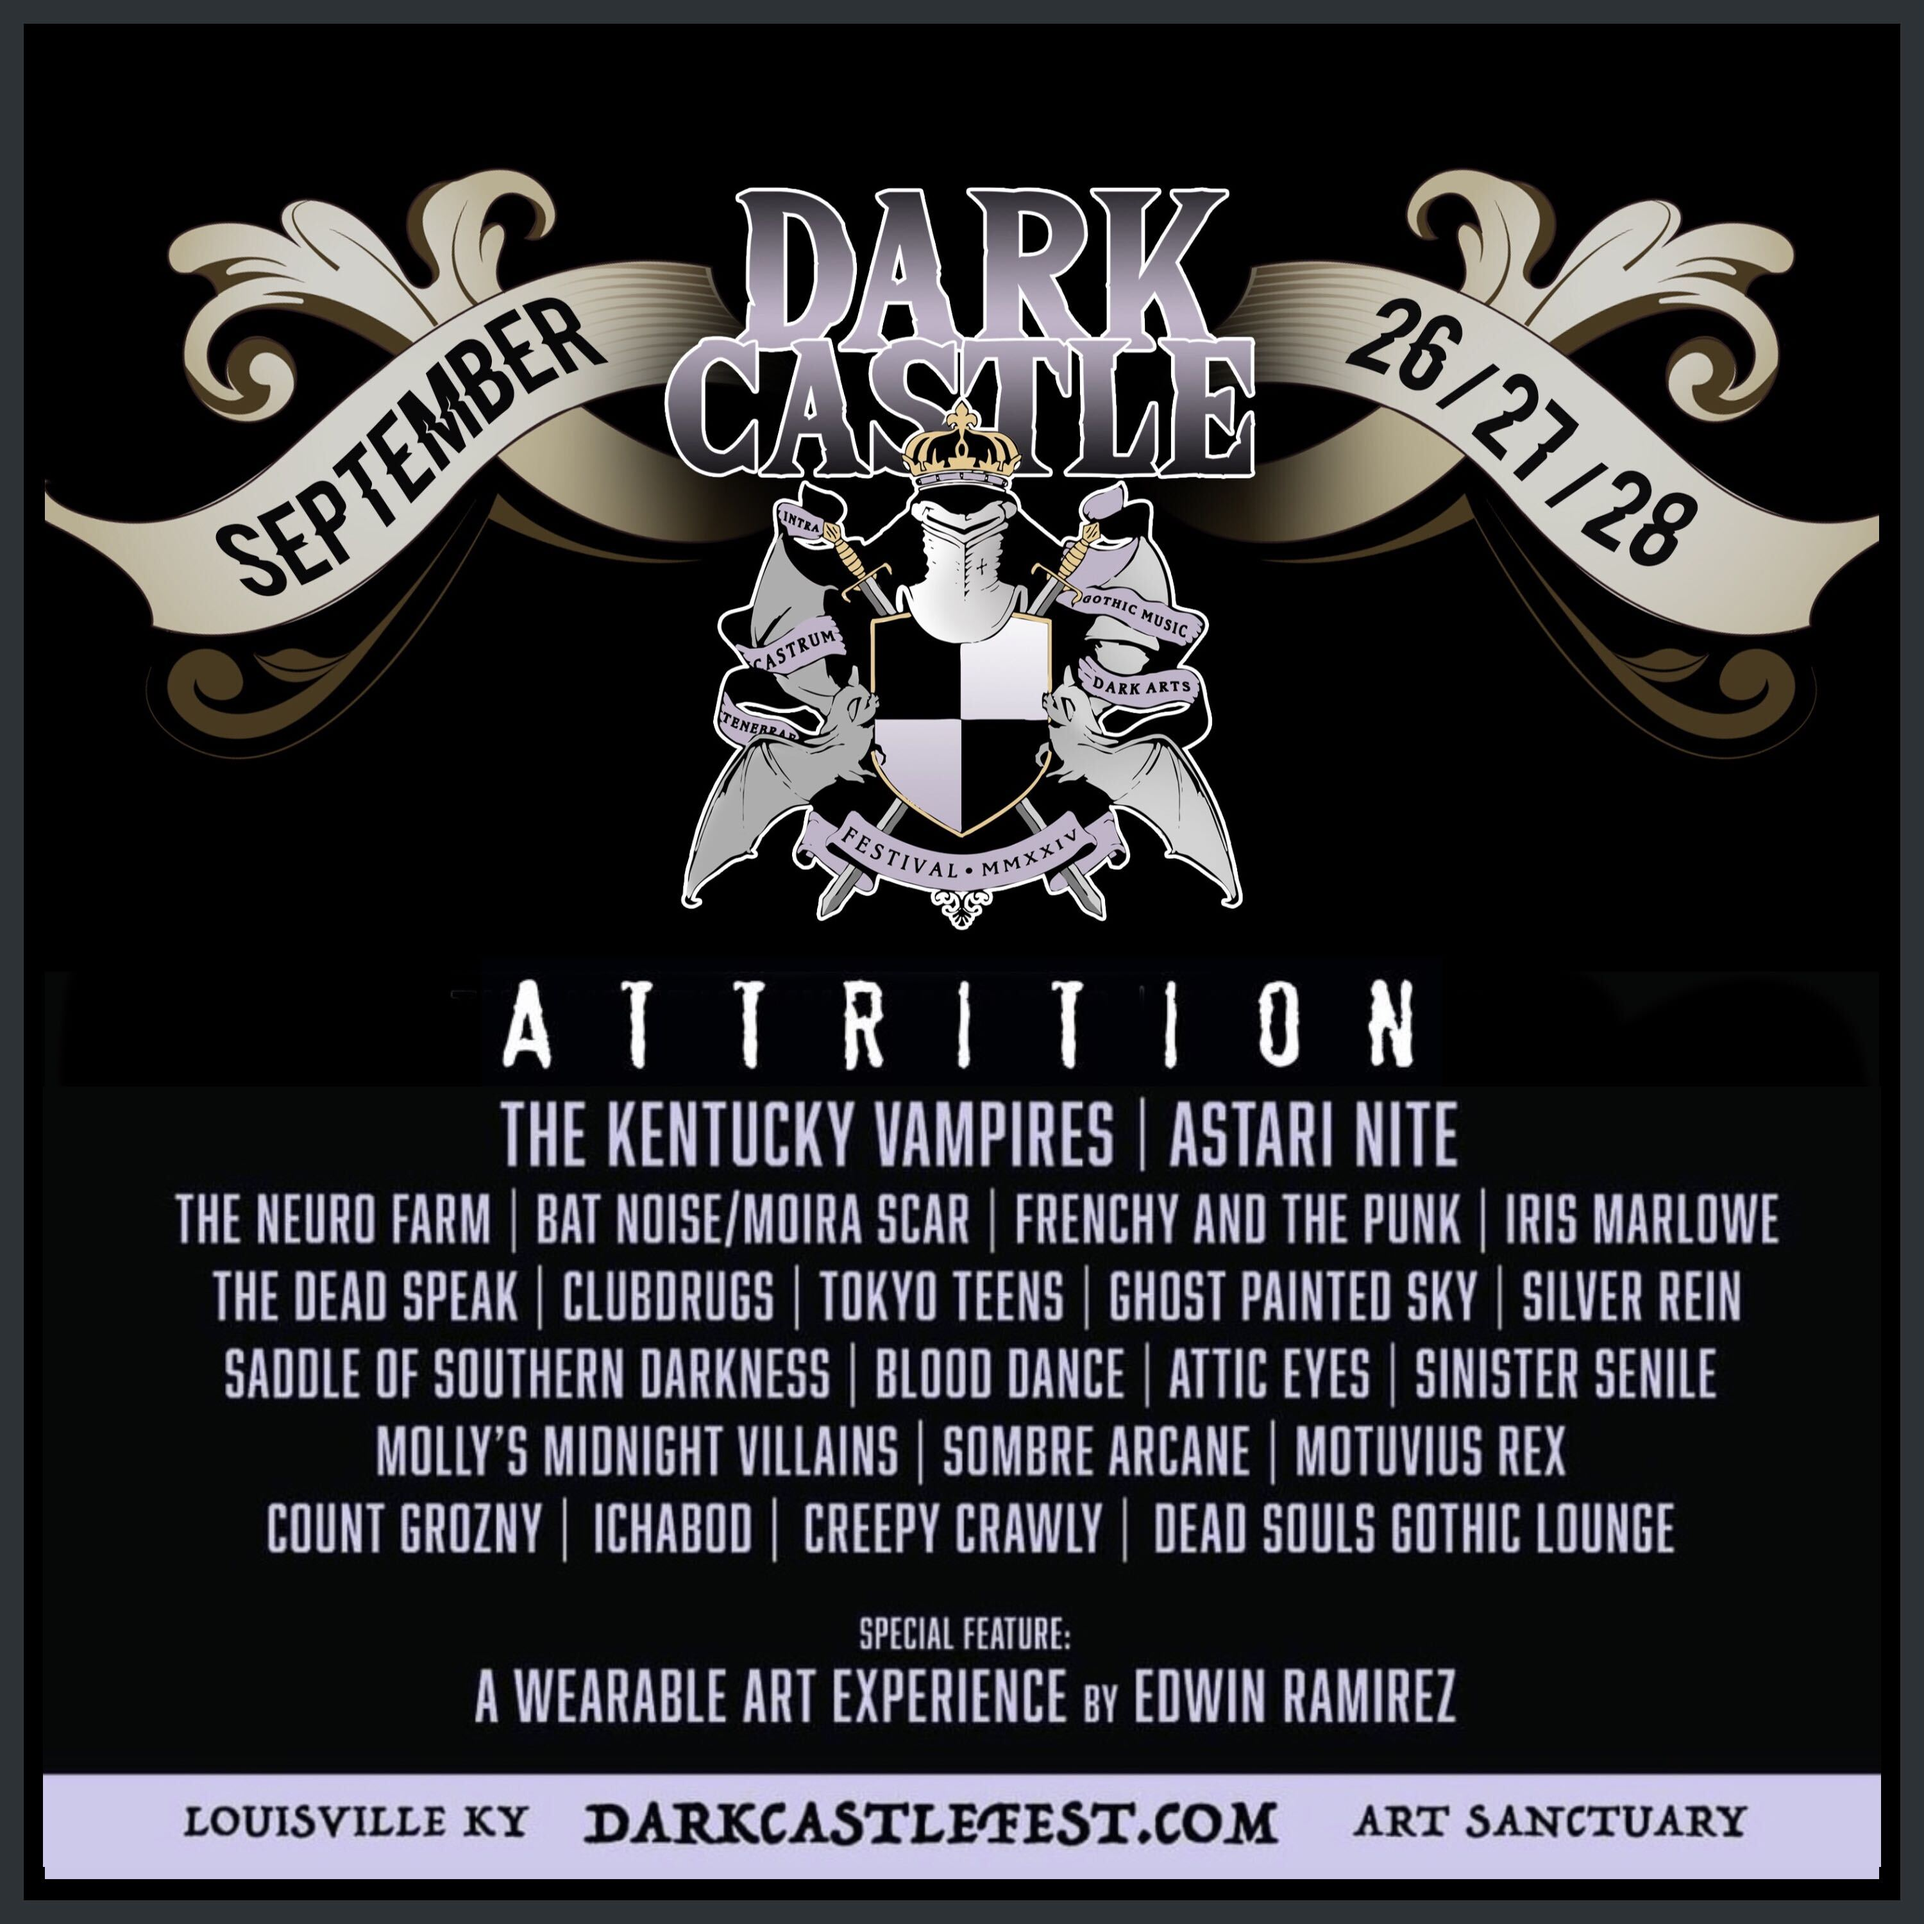
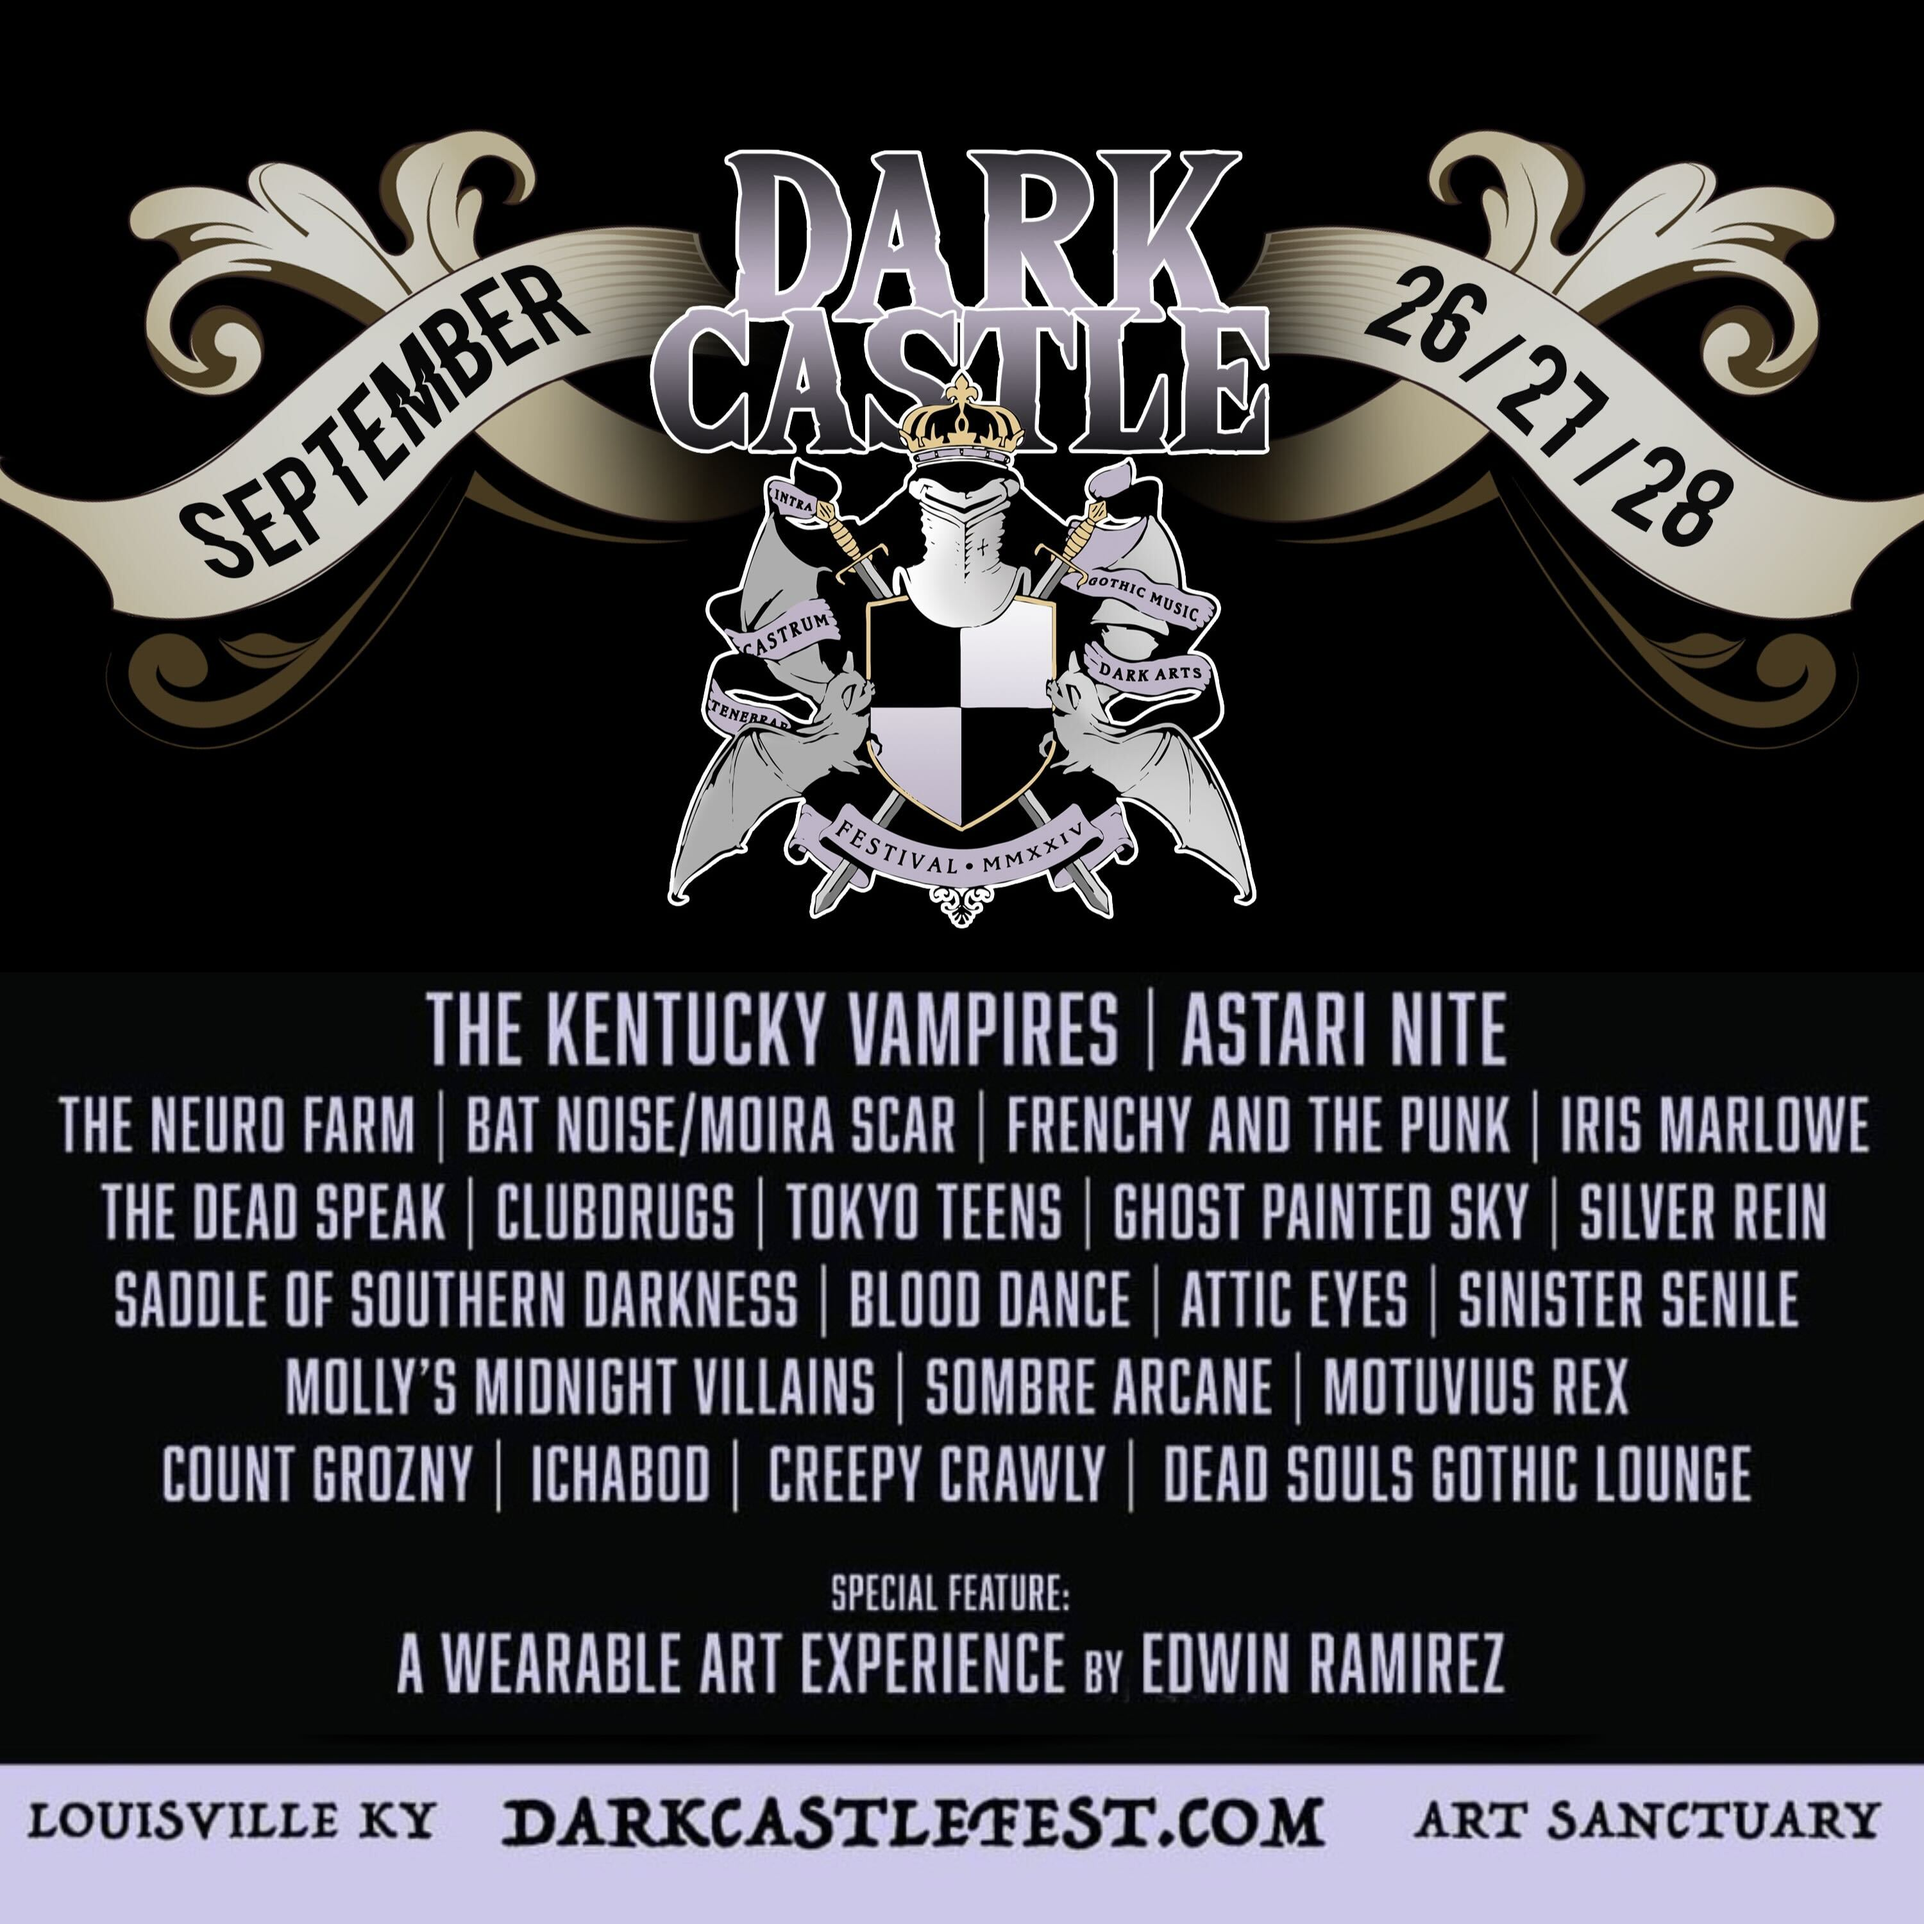
Attrition cancellation

diff --git a/src/schemas/index.ts b/src/schemas/index.ts
@@ -26,6 +26,7 @@ export const performerSchema = z.object({
     description: z.string(),
     seoDescription: z.optional(z.string().nullable()),
     ref: z.string().url().nullable(),
+    canceled: z.optional(z.boolean()).default(false),
   });
 
 export const locationSchema = z.object({

diff --git a/src/content/performers/attrition.md b/src/content/performers/attrition.md
@@ -1,9 +1,10 @@
 ---
 _type: "band"
-name: "Attrition"
+name: "Attrition Cancellation"
 slug: "attrition"
 path: "/bands/attrition"
-image: "/images/bands/attrition.jpg"
+canceled: true
+image: "/images/news/attrition-cancel.jpg"
 logo: null
 event: "dark-castle-fest-2024"
 location: "UK"
@@ -27,18 +28,6 @@ seoDescription: "Join us in welcoming Attrition to the Dark Castle Fest 2024 lin
 ref: "https://musicbrainz.org/artist/4ab82b62-184c-4d2e-bb7b-390a0e89dde7"
 ---
 
-We are extremely excited to announce a late addition to our festival -
-Please welcome Attrition to Dark Castle Fest 2024!
+“The Great Derailer” has turned out to be a bit prophetic for the Attrition 2024 USA tour. Perhaps Martin and company should take up fortune telling.
 
-Generally speaking, once we fill up, that’s a wrap. However, when a legendary artist so historically intertwined in the very fabric of what developed this culture we celebrate asks if we’d be interested, we just couldn’t say no. We had to make room.
-
-For any unfamiliar, here is some background from their website-
-“ATTRITION are pioneers in what became known as darkwave…Carving out a unique slice of the creative underground for over two decades, fueled by a succession of critically acclaimed albums…selling over 50,000 to date…the band has toured all Europe and North America, Mexico and Asia, appeared at major festivals and had their music included on a number of film soundtracks….
-
-Formed in 1980 by Martin Bowes and Julia Waller in Coventry, England, influenced by a mix of punk ideology and experimental art aesthetics, they emerged as part of the early ’80’s UK Industrial scene alongside contemporaries Test Department, Coil, Legendary Pink dots, In The Nursery, Portion Control et al.
-Their music is an undefinable marriage of dark and light…of futures and pasts…probing unexplored sonic landscapes with an eclectic marriage of experimental and traditional sound, of electronics and acoustics, of male and female….what became known as darkwave.”
-
-You can check out Attrition on Bandcamp or wherever you choose to listen to music. Plenty of great tunes available on all of the usual platforms.
-(Including our new Dark Castle Fest 2024 Spotify Playlist with all of the bands).
-
-We are so excited to have Attrition be a part of Dark Castle Fest! You help make this event extra special!
+We do hope they will be able to trudge through the unfortunate circumstances of this year and be able to return with renewed vigor and a better situation in 2025. We wish them the best and see this more as a delay than a cancellation. We will certainly stay in touch and, until then, let’s keep our dark castle fires burning! We’ll see you all soon!

diff --git a/src/content/events/dark-castle-2024.md b/src/content/events/dark-castle-2024.md
@@ -14,7 +14,6 @@ ticketDescription: "Full Event: $85, Two Days: $65, Single Day: $45"
 spotifyPlaylist: "https://open.spotify.com/playlist/17htGghK3PuiiOgrAXcAPe"
 bands:
    [
-      attrition,
       the-kentucky-vampires-2024,
       astari-nite-2024,
       the-neuro-farm-2024,
